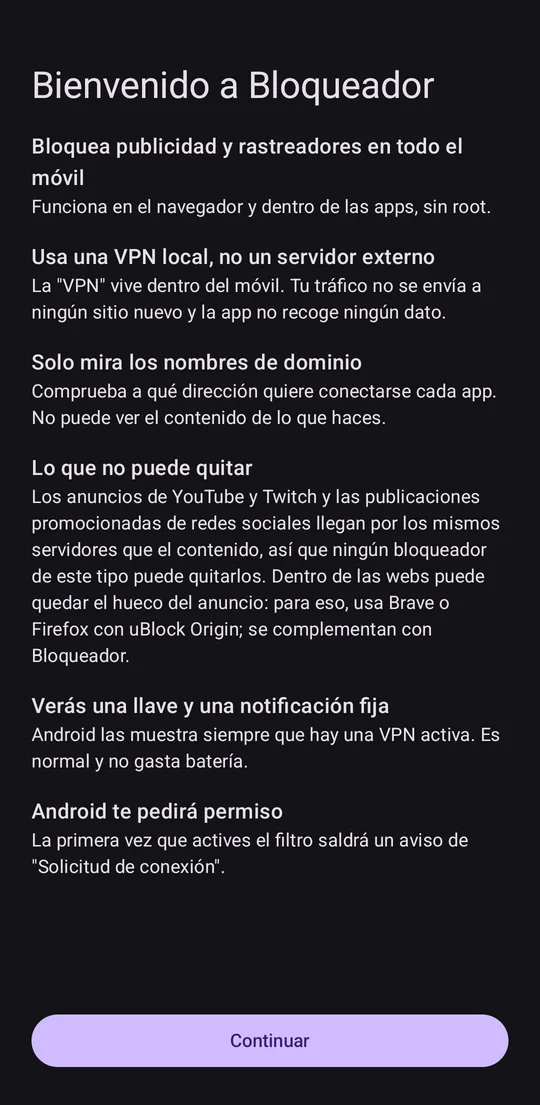
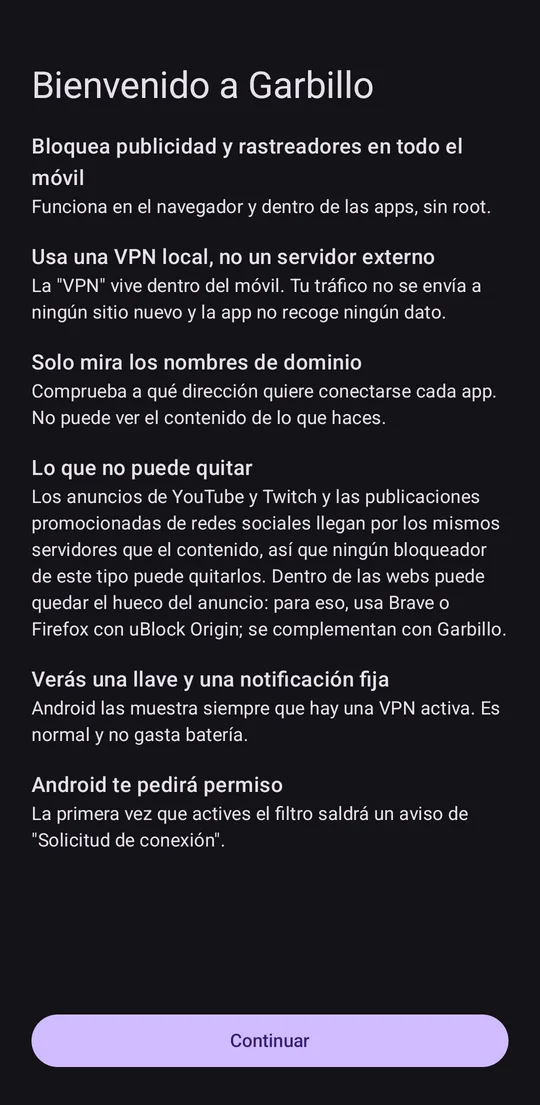
Garbillo: nuevo nombre, protección contra amenazas, capturas nuevas y formulario de reportes
- La página de la utilidad pasa a llamarse Garbillo (la dirección no cambia)
- Protección contra phishing, malware y estafas en características, resultados y preguntas
- Capturas nuevas de la app (8), con la sección de seguridad y el reporte de dominios
- Formulario para reportar una web a analizar, sin instalar nada
- Políticas de privacidad: qué se envía al reportar y dónde se guarda

diff --git a/utilities/bloqueador-android/privacidad/index.html b/utilities/bloqueador-android/privacidad/index.html
@@ -1,15 +1,15 @@
 ---
 layout: legal-v2
 lang: es
-title: "Política de privacidad de Bloqueador · Flowmaticc"
+title: "Política de privacidad de Garbillo · Flowmaticc"
 ---
 
-<div class="doc-badge">Política de privacidad · Bloqueador</div>
-<h1>Política de privacidad de Bloqueador</h1>
-<p class="meta">Última actualización: 12 de noviembre de 2026 · Flowmaticc · Bloqueador para Android</p>
+<div class="doc-badge">Política de privacidad · Garbillo</div>
+<h1>Política de privacidad de Garbillo</h1>
+<p class="meta">Última actualización: 13 de noviembre de 2026 · Flowmaticc · Garbillo para Android</p>
 
 <div class="alert">
-  <strong>Resumen:</strong> Bloqueador no recoge, no envía y no vende ningún dato personal. Todo lo que hace ocurre dentro de tu móvil. No tiene cuentas, ni estadísticas de uso, ni publicidad.
+  <strong>Resumen:</strong> Garbillo no recoge, no envía y no vende ningún dato personal. Todo lo que hace ocurre dentro de tu móvil. No tiene cuentas, ni estadísticas de uso, ni publicidad.
 </div>
 
 <div class="toc">
@@ -34,14 +34,14 @@ title: "Política de privacidad de Bloqueador · Flowmaticc"
   <p><strong>Flowmaticc</strong><br>
   Contacto: <a href="mailto:gestiona.optimiza@gmail.com">gestiona.optimiza@gmail.com</a><br>
   Código fuente: <a href="https://github.com/flowmaticc/bloqueador-android" target="_blank" rel="noopener">github.com/flowmaticc/bloqueador-android</a></p>
-  <p>Esta política se refiere a la app <strong>Bloqueador</strong> para Android. La web flowmaticc.github.io tiene su propia <a href="/legal/privacidad/">política de privacidad</a>.</p>
+  <p>Esta política se refiere a la app <strong>Garbillo</strong> para Android. La web flowmaticc.github.io tiene su propia <a href="/legal/privacidad/">política de privacidad</a>.</p>
 </section>
 
 <section id="funcionamiento">
   <h2>2. Qué hace la app con tu tráfico</h2>
-  <p>Bloqueador usa la función de VPN de Android para crear una <strong>VPN local</strong>, que no se conecta a ningún servidor externo. Por ella pasan únicamente las <strong>consultas DNS</strong> (los nombres de dominio que las apps quieren visitar, por ejemplo <code>ads.ejemplo.com</code>).</p>
+  <p>Garbillo usa la función de VPN de Android para crear una <strong>VPN local</strong>, que no se conecta a ningún servidor externo. Por ella pasan únicamente las <strong>consultas DNS</strong> (los nombres de dominio que las apps quieren visitar, por ejemplo <code>ads.ejemplo.com</code>).</p>
   <ul>
-    <li>Si el dominio está en una lista de bloqueo, la app responde que no existe y la conexión no llega a hacerse.</li>
+    <li>Si el dominio está en una lista de bloqueo (publicidad, rastreo o amenazas como phishing y malware), la app responde que no existe y la conexión no llega a hacerse.</li>
     <li>Si no lo está, la consulta se reenvía a tu servidor DNS habitual (el de tu operador o el que tengas configurado), exactamente como sin la app.</li>
     <li>El resto del tráfico (webs, mensajes, vídeos…) <strong>no pasa por la app</strong>. La app no puede ver el contenido de lo que haces.</li>
   </ul>
@@ -67,18 +67,23 @@ title: "Política de privacidad de Bloqueador · Flowmaticc"
     <li><strong>GitHub</strong> (<code>raw.githubusercontent.com</code>, <code>api.github.com</code>, <code>github.com</code>): descarga de las listas de bloqueo y comprobación de versiones nuevas de la app.</li>
     <li><strong>adaway.org</strong>: solo si activas la capa opcional AdAway.</li>
     <li><strong>La web que tú elijas</strong>, solo cuando usas «Ver en la web» en el historial. Se carga en una ventana propia, sin las cookies de tu navegador, y sus datos se borran al cerrarla.</li>
+    <li><strong>El servicio de reportes de Flowmaticc</strong>, solo cuando pulsas «Reportar para analizar» (en la app) o envías el formulario de la web. Ver el apartado siguiente.</li>
   </ul>
+  <h3>Reportes de webs para analizar</h3>
+  <p>Si decides reportar un dominio, se envía <strong>solo</strong>: el dominio, el motivo que elijas, la nota que escribas (si escribes alguna), si viene de la app o de la web y la versión de la app. No se envía tu historial, tus apps ni ningún identificador.</p>
+  <p>El servicio funciona en <strong>Cloudflare Workers</strong> y guarda el reporte como una incidencia en un repositorio <strong>privado</strong> de GitHub de Flowmaticc, donde lo revisamos para mejorar las listas. <strong>No guardamos tu dirección IP.</strong> Para evitar abusos se limita el número de envíos por conexión y día usando un resumen (hash) de la IP que no permite recuperarla y que se borra solo a las 24 horas. Cloudflare procesa la conexión como cualquier servidor web (ver su <a href="https://www.cloudflare.com/privacypolicy/" target="_blank" rel="noopener">política de privacidad</a>).</p>
+  <p>No escribas datos personales en la nota. Los reportes se conservan mientras sean útiles para el análisis; si quieres que borremos uno, escríbenos.</p>
   <p>En estas descargas no se envía ningún dato personal, pero, como en cualquier conexión a internet, esos servidores pueden ver tu dirección IP. Puedes consultar la <a href="https://docs.github.com/es/site-policy/privacy-policies/github-general-privacy-statement" target="_blank" rel="noopener">declaración de privacidad de GitHub</a>.</p>
 </section>
 
 <section id="permisos">
   <h2>5. Permisos</h2>
-  <p>La lista completa de permisos y para qué se usa cada uno está en la <a href="/utilities/bloqueador-android/#permisos">página de Bloqueador</a>. La app <strong>no</strong> pide acceso a ubicación, cámara, micrófono, contactos, SMS, archivos, accesibilidad ni captura de pantalla.</p>
+  <p>La lista completa de permisos y para qué se usa cada uno está en la <a href="/utilities/bloqueador-android/#permisos">página de Garbillo</a>. La app <strong>no</strong> pide acceso a ubicación, cámara, micrófono, contactos, SMS, archivos, accesibilidad ni captura de pantalla.</p>
 </section>
 
 <section id="terceros">
   <h2>6. Terceros</h2>
-  <p>No se comparte ningún dato con terceros. Las listas de bloqueo son obra de sus autores (Hagezi, GoodbyeAds, 1Hosts, AdAway, StevenBlack) y se descargan directamente de sus repositorios públicos.</p>
+  <p>No se comparte ningún dato con terceros, salvo lo descrito para los reportes (Cloudflare y GitHub como proveedores del servicio). Las listas de bloqueo son obra de sus autores (Hagezi, GoodbyeAds, 1Hosts, AdAway, StevenBlack) y se descargan directamente de sus repositorios públicos.</p>
 </section>
 
 <section id="derechos">
@@ -88,7 +93,7 @@ title: "Política de privacidad de Bloqueador · Flowmaticc"
 
 <section id="licencia">
   <h2>8. Licencia y garantía</h2>
-  <p>Bloqueador es software libre bajo la licencia <a href="https://www.gnu.org/licenses/gpl-3.0.html" target="_blank" rel="noopener">GNU GPL v3</a>. Se ofrece <strong>sin ninguna garantía</strong>: bloquear dominios puede hacer que alguna web o app no funcione correctamente. En ese caso puedes permitir el dominio desde el historial o desactivar el filtro.</p>
+  <p>Garbillo es software libre bajo la licencia <a href="https://www.gnu.org/licenses/gpl-3.0.html" target="_blank" rel="noopener">GNU GPL v3</a>. Se ofrece <strong>sin ninguna garantía</strong>: bloquear dominios puede hacer que alguna web o app no funcione correctamente. En ese caso puedes permitir el dominio desde el historial o desactivar el filtro.</p>
 </section>
 
 <section id="cambios">

diff --git a/en/utilities/bloqueador-android/privacy/index.html b/en/utilities/bloqueador-android/privacy/index.html
@@ -1,15 +1,15 @@
 ---
 layout: legal-v2
 lang: en
-title: "Bloqueador privacy policy · Flowmaticc"
+title: "Garbillo privacy policy · Flowmaticc"
 ---
 
-<div class="doc-badge">Privacy policy · Bloqueador</div>
-<h1>Bloqueador privacy policy</h1>
-<p class="meta">Last updated: 12 November 2026 · Flowmaticc · Bloqueador for Android</p>
+<div class="doc-badge">Privacy policy · Garbillo</div>
+<h1>Garbillo privacy policy</h1>
+<p class="meta">Last updated: 13 November 2026 · Flowmaticc · Garbillo for Android</p>
 
 <div class="alert">
-  <strong>Summary:</strong> Bloqueador doesn't collect, send or sell any personal data. Everything it does happens inside your phone. No accounts, no usage analytics, no ads.
+  <strong>Summary:</strong> Garbillo doesn't collect, send or sell any personal data. Everything it does happens inside your phone. No accounts, no usage analytics, no ads.
 </div>
 
 <div class="toc">
@@ -34,14 +34,14 @@ title: "Bloqueador privacy policy · Flowmaticc"
   <p><strong>Flowmaticc</strong><br>
   Contact: <a href="mailto:gestiona.optimiza@gmail.com">gestiona.optimiza@gmail.com</a><br>
   Source code: <a href="https://github.com/flowmaticc/bloqueador-android" target="_blank" rel="noopener">github.com/flowmaticc/bloqueador-android</a></p>
-  <p>This policy covers the <strong>Bloqueador</strong> app for Android. The flowmaticc.github.io website has its own <a href="/legal/privacidad/">privacy policy</a> (in Spanish).</p>
+  <p>This policy covers the <strong>Garbillo</strong> app for Android. The flowmaticc.github.io website has its own <a href="/legal/privacidad/">privacy policy</a> (in Spanish).</p>
 </section>
 
 <section id="how">
   <h2>2. What the app does with your traffic</h2>
-  <p>Bloqueador uses Android's VPN feature to create a <strong>local VPN</strong> that doesn't connect to any external server. Only <strong>DNS queries</strong> go through it (the domain names apps want to reach, e.g. <code>ads.example.com</code>).</p>
+  <p>Garbillo uses Android's VPN feature to create a <strong>local VPN</strong> that doesn't connect to any external server. Only <strong>DNS queries</strong> go through it (the domain names apps want to reach, e.g. <code>ads.example.com</code>).</p>
   <ul>
-    <li>If the domain is on a block list, the app answers that it doesn't exist and the connection never happens.</li>
+    <li>If the domain is on a block list (ads, tracking or threats such as phishing and malware), the app answers that it doesn't exist and the connection never happens.</li>
     <li>If not, the query is forwarded to your usual DNS server (your carrier's or the one you've set), exactly as without the app.</li>
     <li>All other traffic (websites, messages, videos…) <strong>doesn't go through the app</strong>. The app can't see the content of what you do.</li>
   </ul>
@@ -67,18 +67,23 @@ title: "Bloqueador privacy policy · Flowmaticc"
     <li><strong>GitHub</strong> (<code>raw.githubusercontent.com</code>, <code>api.github.com</code>, <code>github.com</code>): downloading block lists and checking for new app versions.</li>
     <li><strong>adaway.org</strong>: only if you turn on the optional AdAway layer.</li>
     <li><strong>The website you choose</strong>, only when you use “View on the web” in the history. It loads in a separate window, without your browser's cookies, and its data is deleted when you close it.</li>
+    <li><strong>Flowmaticc's report service</strong>, only when you tap “Report for review” (in the app) or send the form on the website. See below.</li>
   </ul>
+  <h3>Site reports</h3>
+  <p>If you choose to report a domain, <strong>only</strong> this is sent: the domain, the reason you pick, the note you write (if any), whether it comes from the app or the website, and the app version. Your history, apps and any identifiers are never sent.</p>
+  <p>The service runs on <strong>Cloudflare Workers</strong> and stores the report as an issue in a <strong>private</strong> Flowmaticc GitHub repository, where we review it to improve the lists. <strong>We don't store your IP address.</strong> To prevent abuse, the number of reports per connection and day is limited using a hash of the IP that cannot be reversed and is deleted after 24 hours. Cloudflare processes the connection like any web server (see its <a href="https://www.cloudflare.com/privacypolicy/" target="_blank" rel="noopener">privacy policy</a>).</p>
+  <p>Please don't put personal data in the note. Reports are kept while useful for analysis; write to us if you want one deleted.</p>
   <p>No personal data is sent in these downloads, but, as with any internet connection, those servers can see your IP address. See <a href="https://docs.github.com/en/site-policy/privacy-policies/github-general-privacy-statement" target="_blank" rel="noopener">GitHub's privacy statement</a>.</p>
 </section>
 
 <section id="permissions">
   <h2>5. Permissions</h2>
-  <p>The complete list of permissions and what each is used for is on the <a href="/en/utilities/bloqueador-android/#permisos">Bloqueador page</a>. The app does <strong>not</strong> ask for location, camera, microphone, contacts, SMS, files, accessibility or screen capture.</p>
+  <p>The complete list of permissions and what each is used for is on the <a href="/en/utilities/bloqueador-android/#permisos">Garbillo page</a>. The app does <strong>not</strong> ask for location, camera, microphone, contacts, SMS, files, accessibility or screen capture.</p>
 </section>
 
 <section id="third-parties">
   <h2>6. Third parties</h2>
-  <p>No data is shared with third parties. The block lists are the work of their authors (Hagezi, GoodbyeAds, 1Hosts, AdAway, StevenBlack) and are downloaded directly from their public repositories.</p>
+  <p>No data is shared with third parties, except as described for reports (Cloudflare and GitHub as service providers). The block lists are the work of their authors (Hagezi, GoodbyeAds, 1Hosts, AdAway, StevenBlack) and are downloaded directly from their public repositories.</p>
 </section>
 
 <section id="rights">
@@ -88,7 +93,7 @@ title: "Bloqueador privacy policy · Flowmaticc"
 
 <section id="license">
   <h2>8. License and warranty</h2>
-  <p>Bloqueador is free software under the <a href="https://www.gnu.org/licenses/gpl-3.0.html" target="_blank" rel="noopener">GNU GPL v3</a>. It is provided <strong>without any warranty</strong>: blocking domains may stop some site or app from working properly. If so, you can allow the domain from the history or turn the filter off.</p>
+  <p>Garbillo is free software under the <a href="https://www.gnu.org/licenses/gpl-3.0.html" target="_blank" rel="noopener">GNU GPL v3</a>. It is provided <strong>without any warranty</strong>: blocking domains may stop some site or app from working properly. If so, you can allow the domain from the history or turn the filter off.</p>
 </section>
 
 <section id="changes">

diff --git a/_includes/navbar-v2.html b/_includes/navbar-v2.html
@@ -18,7 +18,7 @@
           <div class="dropdown-menu">
             <a href="/en/utilities/google-auth/" class="dropdown-item" data-umami="use-google-auth">Google Auth Extractor</a>
             <a href="/en/utilities/extension/" class="dropdown-item" data-umami="use-extension">Position Caret</a>
-            <a href="/en/utilities/bloqueador-android/" class="dropdown-item" data-umami="use-bloqueador">Bloqueador (Android)</a>
+            <a href="/en/utilities/bloqueador-android/" class="dropdown-item" data-umami="use-bloqueador">Garbillo (Android)</a>
             <div class="dropdown-divider"></div>
             <a href="https://github.com/flowmaticc" target="_blank" class="dropdown-item" data-umami="click-github">More on GitHub</a>
           </div>
@@ -31,7 +31,7 @@
           <div class="dropdown-menu">
             <a href="/fr/utilities/google-auth/" class="dropdown-item" data-umami="use-google-auth">Google Auth Extractor</a>
             <a href="/fr/utilities/extension/" class="dropdown-item" data-umami="use-extension">Position Caret</a>
-            <a href="/en/utilities/bloqueador-android/" class="dropdown-item" data-umami="use-bloqueador">Bloqueador (Android)</a>
+            <a href="/en/utilities/bloqueador-android/" class="dropdown-item" data-umami="use-bloqueador">Garbillo (Android)</a>
             <div class="dropdown-divider"></div>
             <a href="https://github.com/flowmaticc" target="_blank" class="dropdown-item" data-umami="click-github">Plus sur GitHub</a>
           </div>
@@ -44,7 +44,7 @@
           <div class="dropdown-menu">
             <a href="/de/utilities/google-auth/" class="dropdown-item" data-umami="use-google-auth">Google Auth Extractor</a>
             <a href="/de/utilities/extension/" class="dropdown-item" data-umami="use-extension">Position Caret</a>
-            <a href="/en/utilities/bloqueador-android/" class="dropdown-item" data-umami="use-bloqueador">Bloqueador (Android)</a>
+            <a href="/en/utilities/bloqueador-android/" class="dropdown-item" data-umami="use-bloqueador">Garbillo (Android)</a>
             <div class="dropdown-divider"></div>
             <a href="https://github.com/flowmaticc" target="_blank" class="dropdown-item" data-umami="click-github">Mehr auf GitHub</a>
           </div>
@@ -57,7 +57,7 @@
           <div class="dropdown-menu">
             <a href="/pt/utilities/google-auth/" class="dropdown-item" data-umami="use-google-auth">Google Auth Extractor</a>
             <a href="/pt/utilities/extension/" class="dropdown-item" data-umami="use-extension">Position Caret</a>
-            <a href="/en/utilities/bloqueador-android/" class="dropdown-item" data-umami="use-bloqueador">Bloqueador (Android)</a>
+            <a href="/en/utilities/bloqueador-android/" class="dropdown-item" data-umami="use-bloqueador">Garbillo (Android)</a>
             <div class="dropdown-divider"></div>
             <a href="https://github.com/flowmaticc" target="_blank" class="dropdown-item" data-umami="click-github">Mais no GitHub</a>
           </div>
@@ -70,7 +70,7 @@
           <div class="dropdown-menu">
             <a href="/zh/utilities/google-auth/" class="dropdown-item" data-umami="use-google-auth">Google Auth Extractor</a>
             <a href="/zh/utilities/extension/" class="dropdown-item" data-umami="use-extension">Position Caret</a>
-            <a href="/en/utilities/bloqueador-android/" class="dropdown-item" data-umami="use-bloqueador">Bloqueador (Android)</a>
+            <a href="/en/utilities/bloqueador-android/" class="dropdown-item" data-umami="use-bloqueador">Garbillo (Android)</a>
             <div class="dropdown-divider"></div>
             <a href="https://github.com/flowmaticc" target="_blank" class="dropdown-item" data-umami="click-github">GitHub上更多</a>
           </div>
@@ -83,7 +83,7 @@
           <div class="dropdown-menu">
             <a href="/ru/utilities/google-auth/" class="dropdown-item" data-umami="use-google-auth">Google Auth Extractor</a>
             <a href="/ru/utilities/extension/" class="dropdown-item" data-umami="use-extension">Position Caret</a>
-            <a href="/en/utilities/bloqueador-android/" class="dropdown-item" data-umami="use-bloqueador">Bloqueador (Android)</a>
+            <a href="/en/utilities/bloqueador-android/" class="dropdown-item" data-umami="use-bloqueador">Garbillo (Android)</a>
             <div class="dropdown-divider"></div>
             <a href="https://github.com/flowmaticc" target="_blank" class="dropdown-item" data-umami="click-github">Больше на GitHub</a>
           </div>
@@ -96,7 +96,7 @@
           <div class="dropdown-menu">
             <a href="/it/utilities/google-auth/" class="dropdown-item" data-umami="use-google-auth">Google Auth Extractor</a>
             <a href="/it/utilities/extension/" class="dropdown-item" data-umami="use-extension">Position Caret</a>
-            <a href="/en/utilities/bloqueador-android/" class="dropdown-item" data-umami="use-bloqueador">Bloqueador (Android)</a>
+            <a href="/en/utilities/bloqueador-android/" class="dropdown-item" data-umami="use-bloqueador">Garbillo (Android)</a>
             <div class="dropdown-divider"></div>
             <a href="https://github.com/flowmaticc" target="_blank" class="dropdown-item" data-umami="click-github">Altro su GitHub</a>
           </div>
@@ -109,7 +109,7 @@
           <div class="dropdown-menu">
             <a href="/utilities/google-auth/" class="dropdown-item" data-umami="use-google-auth">Google Auth Extractor</a>
             <a href="/utilities/extension/" class="dropdown-item" data-umami="use-extension">Position Caret</a>
-            <a href="/utilities/bloqueador-android/" class="dropdown-item" data-umami="use-bloqueador">Bloqueador (Android)</a>
+            <a href="/utilities/bloqueador-android/" class="dropdown-item" data-umami="use-bloqueador">Garbillo (Android)</a>
             <div class="dropdown-divider"></div>
             <a href="https://github.com/flowmaticc" target="_blank" class="dropdown-item" data-umami="click-github">Más en GitHub</a>
           </div>

diff --git a/_includes/pages/bloqueador-body.html b/_includes/pages/bloqueador-body.html
@@ -15,6 +15,7 @@
 
   <div class="hero-copy">
     <p>{{ t.hero.copy }}</p>
+    <p style="color:var(--muted-2);font-style:italic">{{ t.hero.origin }}</p>
   </div>
 
   <div class="chip-row">
@@ -66,7 +67,7 @@
     <div><div class="section-kicker">{{ t.screenshots.kicker }}</div></div>
     <div><h2>{{ t.screenshots.title }}</h2></div>
   </div>
-  {% assign shots = "inicio|historial|detalle|ver-en-la-web|ajustes|bienvenida" | split: "|" %}
+  {% assign shots = "inicio|seguridad|historial|detalle|ver-en-la-web|reportar|ajustes|bienvenida" | split: "|" %}
   <div class="shot-grid bq-shots" data-reveal>
     {% for s in shots %}
     <button type="button" class="bq-shot" data-src="/img/bloqueador/{{ s }}.webp" aria-label="{{ t.screenshots.alts[forloop.index0] }}"><img src="/img/bloqueador/{{ s }}.webp" alt="{{ t.screenshots.alts[forloop.index0] }}" width="540" height="1105" loading="lazy"></button>
@@ -147,6 +148,33 @@
   </div>
   {% endfor %}
   <div class="info-card"><p>{{ t.install.updates_note }}</p></div>
+</div>
+</section>
+
+<section class="section bq-anchor" id="reportar">
+<div class="container">
+  <div class="section-header">
+    <div><div class="section-kicker">{{ t.report.kicker }}</div></div>
+    <div><h2>{{ t.report.title }}</h2><p class="section-intro">{{ t.report.intro }}</p></div>
+  </div>
+  <form class="info-card bq-report" id="bqReport" novalidate data-reveal>
+    <label>{{ t.report.domain_label }}
+      <input type="text" name="dominio" required maxlength="300" autocomplete="off" placeholder="{{ t.report.domain_placeholder }}">
+    </label>
+    <label>{{ t.report.reason_label }}
+      <select name="motivo">{% for r in t.report.reasons %}<option value="{{ r[0] }}">{{ r[1] }}</option>{% endfor %}</select>
+    </label>
+    <label>{{ t.report.note_label }}
+      <textarea name="nota" rows="3" maxlength="300" placeholder="{{ t.report.note_placeholder }}"></textarea>
+    </label>
+    <!-- Campo trampa para robots: las personas no lo ven -->
+    <input type="text" name="web" tabindex="-1" autocomplete="off" class="bq-hp" aria-hidden="true">
+    <div class="bq-report-row">
+      <button type="submit" class="button-primary">{{ t.report.submit }}</button>
+      <span class="bq-report-msg" role="status"></span>
+    </div>
+    <p class="bq-note" style="text-align:left;margin-top:0">{{ t.report.privacy }}</p>
+  </form>
 </div>
 </section>
 
@@ -236,6 +264,15 @@
   .bq-lightbox-close:hover, .bq-lightbox-nav:hover { border-color: var(--lime); color: var(--lime); }
   .bq-lightbox-nav { margin: 0 10px; flex-shrink: 0; }
   .bq-lightbox-caption { position: absolute; bottom: 14px; left: 0; right: 0; text-align: center; color: var(--muted); font-size: 12px; }
+  .bq-report { display: grid; gap: 14px; }
+  .bq-report label { display: grid; gap: 6px; font-size: 12px; color: var(--muted); font-family: "DM Mono", monospace; }
+  .bq-report input, .bq-report select, .bq-report textarea { width: 100%; box-sizing: border-box; padding: 10px 12px; background: #0c0c0c; border: 1px solid var(--line); color: #fff; font: 14px "Manrope", sans-serif; }
+  .bq-report input:focus, .bq-report select:focus, .bq-report textarea:focus { outline: none; border-color: var(--lime); }
+  .bq-report .bq-hp { position: absolute; left: -9999px; width: 1px; height: 1px; opacity: 0; }
+  .bq-report-row { display: flex; gap: 14px; align-items: center; flex-wrap: wrap; }
+  .bq-report-msg { font-size: 13px; color: var(--muted); }
+  .bq-report-msg.ok { color: var(--lime); }
+  .bq-report-msg.err { color: #ff6b6b; }
   .bq-top { position: fixed; right: 18px; bottom: 18px; z-index: 50; width: 44px; height: 44px; border: 1px solid var(--lime); background: #111; color: var(--lime); font-size: 18px; cursor: pointer; opacity: 0; pointer-events: none; transition: opacity .2s; }
   .bq-top.show { opacity: 1; pointer-events: auto; }
   @media (max-width: 600px) { .bq-lightbox-nav { position: absolute; bottom: 44px; } .bq-prev { left: 16px; } .bq-next { right: 16px; } }
@@ -381,6 +418,34 @@
     if (e.key === "Escape") close();
     if (e.key === "ArrowLeft") show(idx - 1);
     if (e.key === "ArrowRight") show(idx + 1);
+  });
+
+  // Formulario de reportes: envía el dominio, el motivo y la nota al servicio de reportes.
+  const REPORT_URL = "https://garbillo-reportes.flowmaticc.workers.dev/reportar";
+  const R = {
+    sending: {{ t.report.sending | jsonify }}, ok: {{ t.report.ok | jsonify }}, invalid: {{ t.report.invalid | jsonify }},
+    limit: {{ t.report.limit | jsonify }}, error: {{ t.report.error | jsonify }}, submit: {{ t.report.submit | jsonify }},
+  };
+  const form = document.getElementById("bqReport");
+  const msg = form.querySelector(".bq-report-msg");
+  const btn = form.querySelector("button[type=submit]");
+  form.addEventListener("submit", async e => {
+    e.preventDefault();
+    const fd = new FormData(form);
+    const dominio = String(fd.get("dominio") || "").trim();
+    msg.className = "bq-report-msg";
+    if (!/^(https?:\/\/)?([a-z0-9-]+\.)+[a-z]{2,}(\/.*)?$/i.test(dominio)) { msg.textContent = R.invalid; msg.classList.add("err"); return; }
+    btn.disabled = true; btn.textContent = R.sending; msg.textContent = "";
+    try {
+      const r = await fetch(REPORT_URL, {
+        method: "POST",
+        headers: { "Content-Type": "application/json" },
+        body: JSON.stringify({ dominio, motivo: fd.get("motivo"), nota: fd.get("nota"), origen: "web", web: fd.get("web") }),
+      });
+      if (r.ok) { msg.textContent = R.ok; msg.classList.add("ok"); form.reset(); }
+      else { msg.textContent = r.status === 429 ? R.limit : (r.status === 400 ? R.invalid : R.error); msg.classList.add("err"); }
+    } catch (_) { msg.textContent = R.error; msg.classList.add("err"); }
+    btn.disabled = false; btn.textContent = R.submit;
   });
 
   // Preguntas frecuentes: igual que en la portada.

diff --git a/_includes/pages/home-body.html b/_includes/pages/home-body.html
@@ -305,7 +305,7 @@
 </section>
 
 <!-- =====================================================
-     OTRAS UTILIDADES: Bloqueador (Android)
+     OTRAS UTILIDADES: Garbillo (Android)
      Textos en español en /, en inglés en el resto (la app y su página solo existen en ES/EN).
 ===================================================== -->
 {% assign bq_es = false %}{% if page.lang == 'es' or page.lang == nil %}{% assign bq_es = true %}{% endif %}
@@ -314,8 +314,8 @@
   <div class="section-header">
     <div><div class="section-kicker">{% if bq_es %}/ también de flowmaticc{% else %}/ also by flowmaticc{% endif %}</div></div>
     <div>
-      <h2>{% if bq_es %}Bloqueador: adiós a los anuncios en tu Android.{% else %}Bloqueador: goodbye to ads on your Android.{% endif %}</h2>
-      <p class="section-intro">{% if bq_es %}Bloquea publicidad y rastreadores en todo el móvil, también dentro de las apps. Sin root, sin cuentas y sin que nada salga del teléfono. Gratis y de código abierto.{% else %}Blocks ads and trackers across your whole phone, including inside apps. No root, no accounts, nothing leaves the phone. Free and open source.{% endif %}</p>
+      <h2>{% if bq_es %}Garbillo: adiós a los anuncios y a los sitios peligrosos en tu Android.{% else %}Garbillo: goodbye to ads and dangerous sites on your Android.{% endif %}</h2>
+      <p class="section-intro">{% if bq_es %}Bloquea publicidad, rastreadores, phishing y estafas en todo el móvil, también dentro de las apps. Sin root, sin cuentas y sin que nada salga del teléfono. Gratis y de código abierto.{% else %}Blocks ads, trackers, phishing and scams across your whole phone, including inside apps. No root, no accounts, nothing leaves the phone. Free and open source.{% endif %}</p>
     </div>
   </div>
   <div class="info-card" data-reveal>
@@ -323,7 +323,7 @@
     <div class="util-preview-row"><span>{% if bq_es %}Dominios de anuncios bloqueados en tests públicos{% else %}Ad domains blocked in public tests{% endif %}</span><strong style="color:var(--lime)">96 %</strong></div>
     <div class="util-preview-row"><span>{% if bq_es %}Batería al día{% else %}Battery per day{% endif %}</span><span>0,1–0,4 %</span><span class="util-status-dot"></span></div>
     <div class="hero-actions" style="justify-content:flex-start;margin-top:18px">
-      <a href="{% if bq_es %}/utilities/bloqueador-android/{% else %}/en/utilities/bloqueador-android/{% endif %}" class="button-primary" data-umami="use-bloqueador">{% if bq_es %}Conocer Bloqueador →{% else %}Discover Bloqueador →{% endif %}</a>
+      <a href="{% if bq_es %}/utilities/bloqueador-android/{% else %}/en/utilities/bloqueador-android/{% endif %}" class="button-primary" data-umami="use-bloqueador">{% if bq_es %}Conocer Garbillo →{% else %}Discover Garbillo →{% endif %}</a>
     </div>
   </div>
 </div>

diff --git a/_includes/footer-v2.html b/_includes/footer-v2.html
@@ -21,7 +21,7 @@
       <a href="https://github.com/flowmaticc" target="_blank" data-umami="click-github">GitHub</a>
       <a href="{% case page.lang %}{% when 'en' %}/en{% when 'fr' %}/fr{% when 'de' %}/de{% when 'pt' %}/pt{% when 'zh' %}/zh{% when 'ru' %}/ru{% when 'it' %}/it{% endcase %}/utilities/google-auth/" data-umami="use-google-auth">{% if page.lang == 'en' %}Utilities{% elsif page.lang == 'fr' %}Utilitaires{% elsif page.lang == 'de' %}Dienstprogramme{% elsif page.lang == 'pt' %}Utilitários{% elsif page.lang == 'zh' %}工具{% elsif page.lang == 'ru' %}Утилиты{% elsif page.lang == 'it' %}Strumenti{% else %}Utilidades{% endif %}</a>
       <a href="{% case page.lang %}{% when 'en' %}/en{% when 'fr' %}/fr{% when 'de' %}/de{% when 'pt' %}/pt{% when 'zh' %}/zh{% when 'ru' %}/ru{% when 'it' %}/it{% endcase %}/utilities/extension/" data-umami="use-extension">Position Caret</a>
-      <a href="{% if page.lang == 'es' or page.lang == nil %}/utilities/bloqueador-android/{% else %}/en/utilities/bloqueador-android/{% endif %}" data-umami="use-bloqueador">Bloqueador</a>
+      <a href="{% if page.lang == 'es' or page.lang == nil %}/utilities/bloqueador-android/{% else %}/en/utilities/bloqueador-android/{% endif %}" data-umami="use-bloqueador">Garbillo</a>
       <a href="{% case page.lang %}{% when 'en' %}/en/changelog/{% when 'fr' %}/fr/changelog/{% when 'de' %}/de/changelog/{% when 'pt' %}/pt/changelog/{% when 'zh' %}/zh/changelog/{% when 'ru' %}/ru/changelog/{% when 'it' %}/it/changelog/{% else %}/novedades/{% endcase %}">{% if page.lang == 'en' %}Changelog{% elsif page.lang == 'fr' %}Nouveautés{% elsif page.lang == 'de' %}Neuigkeiten{% elsif page.lang == 'pt' %}Novidades{% elsif page.lang == 'zh' %}更新日志{% elsif page.lang == 'ru' %}Обновления{% elsif page.lang == 'it' %}Novità{% else %}Novedades{% endif %}</a>
       <a href="/legal/privacidad/">{% if page.lang == 'en' %}Privacy{% elsif page.lang == 'fr' %}Confidentialité{% elsif page.lang == 'de' %}Datenschutz{% elsif page.lang == 'pt' %}Privacidade{% elsif page.lang == 'zh' %}隐私政策{% elsif page.lang == 'ru' %}Конфиденциальность{% elsif page.lang == 'it' %}Privacy{% else %}Privacidad{% endif %}</a>
       <a href="/legal/aviso-legal/">{% if page.lang == 'en' %}Legal notice{% elsif page.lang == 'fr' %}Mentions légales{% elsif page.lang == 'de' %}Impressum{% elsif page.lang == 'pt' %}Aviso legal{% elsif page.lang == 'zh' %}法律声明{% elsif page.lang == 'ru' %}Юр. информация{% elsif page.lang == 'it' %}Note legali{% else %}Aviso legal{% endif %}</a>

diff --git a/utilities/bloqueador-android/index.html b/utilities/bloqueador-android/index.html
@@ -4,8 +4,8 @@ lang: es
 design: v2
 nav_active: utilities
 hreflang_langs: [es, en]
-title: "Bloqueador · Bloqueador de anuncios para Android sin root · Flowmaticc"
-description: "Bloquea publicidad y rastreadores en todo el móvil Android, también dentro de las apps. Sin root, sin cuentas, 100% local y de código abierto. Gratis."
+title: "Garbillo · Bloqueador de anuncios y phishing para Android sin root · Flowmaticc"
+description: "Garbillo bloquea publicidad, rastreadores y sitios peligrosos (phishing, malware, estafas) en todo el móvil Android, también dentro de las apps. Sin root, sin cuentas, 100% local y de código abierto. Gratis."
 canonical: "https://flowmaticc.github.io/utilities/bloqueador-android/"
 ---
 {% include pages/bloqueador-body.html %}

diff --git a/en/utilities/bloqueador-android/index.html b/en/utilities/bloqueador-android/index.html
@@ -4,8 +4,8 @@ lang: en
 design: v2
 nav_active: utilities
 hreflang_langs: [es, en]
-title: "Bloqueador · Ad blocker for Android, no root · Flowmaticc"
-description: "Block ads and trackers across your whole Android phone, including inside apps. No root, no accounts, 100% local and open source. Free."
+title: "Garbillo · Ad and phishing blocker for Android, no root · Flowmaticc"
+description: "Garbillo blocks ads, trackers and dangerous sites (phishing, malware, scams) across your whole Android phone, including inside apps. No root, no accounts, 100% local and open source. Free."
 canonical: "https://flowmaticc.github.io/en/utilities/bloqueador-android/"
 ---
 {% include pages/bloqueador-body.html %}
